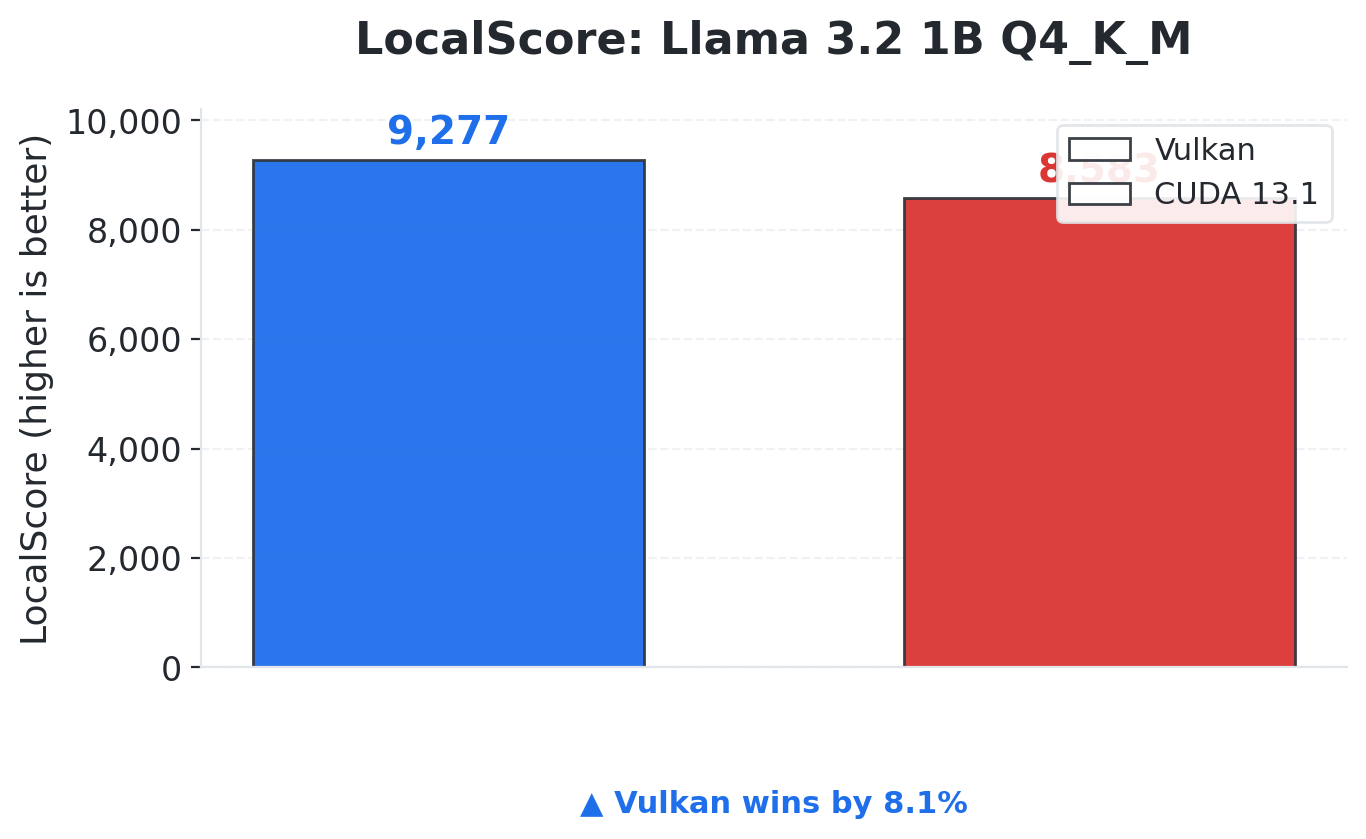
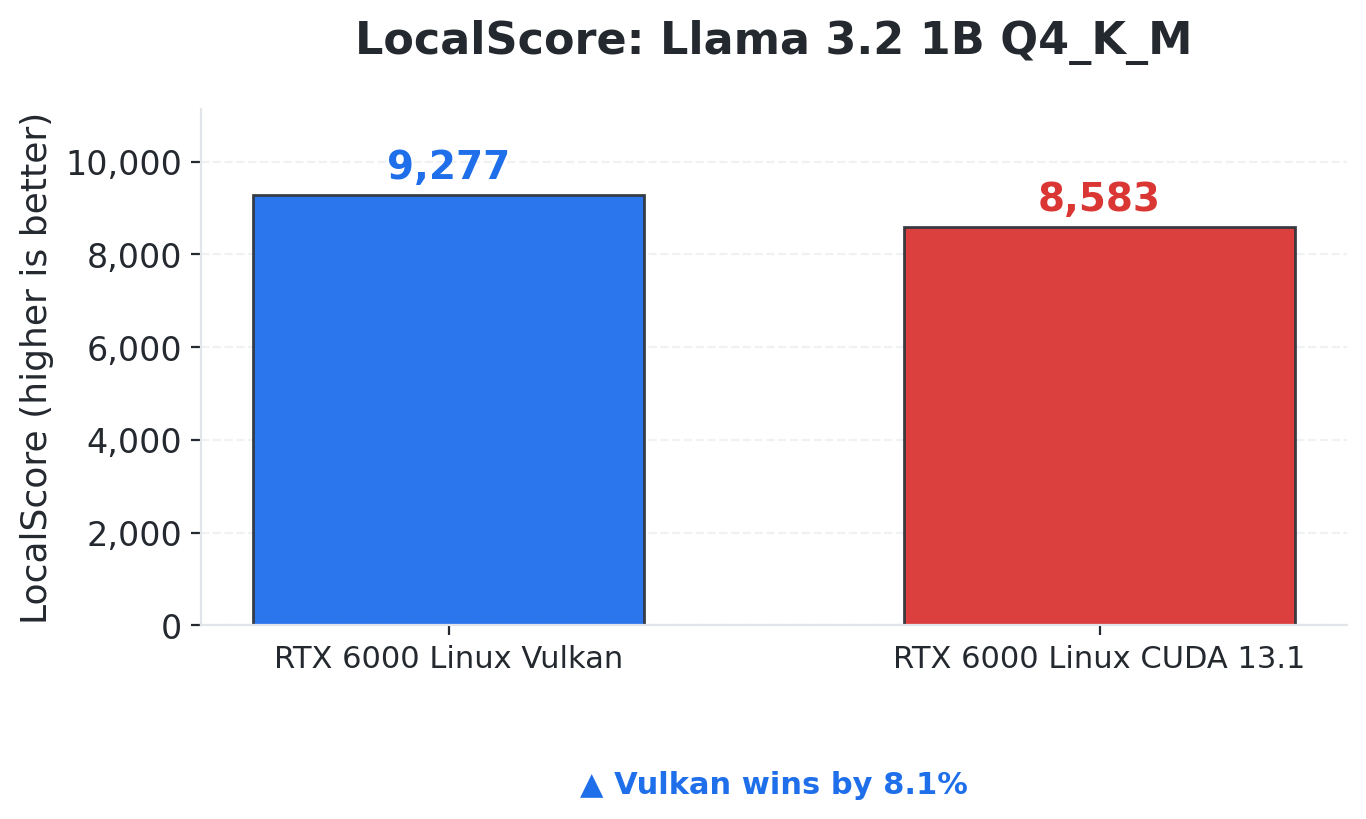
docs: add labels under bars, adjust spacing
- X-axis labels under each bar: 'RTX 6000 Linux Vulkan' / 'RTX 6000 Linux CUDA 13.1'
- Delta annotation moved lower (-0.28) to avoid overlap
- Y-axis limit increased to 1.2x max for extra padding

No legend needed - labels are under each bar

diff --git a/tools/generate_chart.py b/tools/generate_chart.py
@@ -126,28 +126,18 @@ def generate_chart(
         pad=20,
     )
 
-    # Legend
-    legend = ax.legend(
-        bars,
-        ["Vulkan", "CUDA 13.1"],
-        loc="upper right",
-        fontsize=11,
-        frameon=True,
-        framealpha=0.9,
-        edgecolor="#e1e4e8"
-    )
-    for patch in legend.get_patches():
-        patch.set_facecolor("white")
+    # X-axis labels under bars
+    x_labels = [
+        f"RTX 6000 Linux Vulkan",
+        f"RTX 6000 Linux CUDA 13.1"
+    ]
+    ax.set_xticks(x_pos)
+    ax.set_xticklabels(x_labels, fontsize=11, fontweight="medium")
 
-    # Remove x-axis labels and ticks
-    ax.set_xticks([])
-    ax.set_xlabel("")
-
-    # Add delta annotation - put machine info in subtitle
+    # Add delta annotation - lower position for label space
     trophy = "▲"  # Simple triangle for GitHub font compatibility
-    subtitle_text = f"RTX 6000 on Linux | {gpu_name.split('Server Edition')[0].strip()}"
     ax.text(
-        0.5, -0.22,
+        0.5, -0.28,
         f"{trophy} Vulkan wins by {delta_pct}%"
         if winner == "Vulkan"
         else f"{trophy} CUDA wins by {abs(delta_pct)}%",
@@ -171,9 +161,12 @@ def generate_chart(
 
     # Y-axis formatting
     ax.yaxis.set_major_formatter(mticker.FuncFormatter(lambda x, p: f"{int(x):,}"))
-    ax.set_ylim(0, max(scores) * 1.1)
+    ax.set_ylim(0, max(scores) * 1.2)
 
-    # Save - smaller DPI, higher quality
+    # Rotate x labels for better fit
+    plt.xticks(rotation=0, ha="center")
+
+    # Save - higher DPI, higher quality
     plt.tight_layout()
     plt.savefig(output_path, bbox_inches="tight", facecolor=COLOR_BG, dpi=200)
     plt.close()
